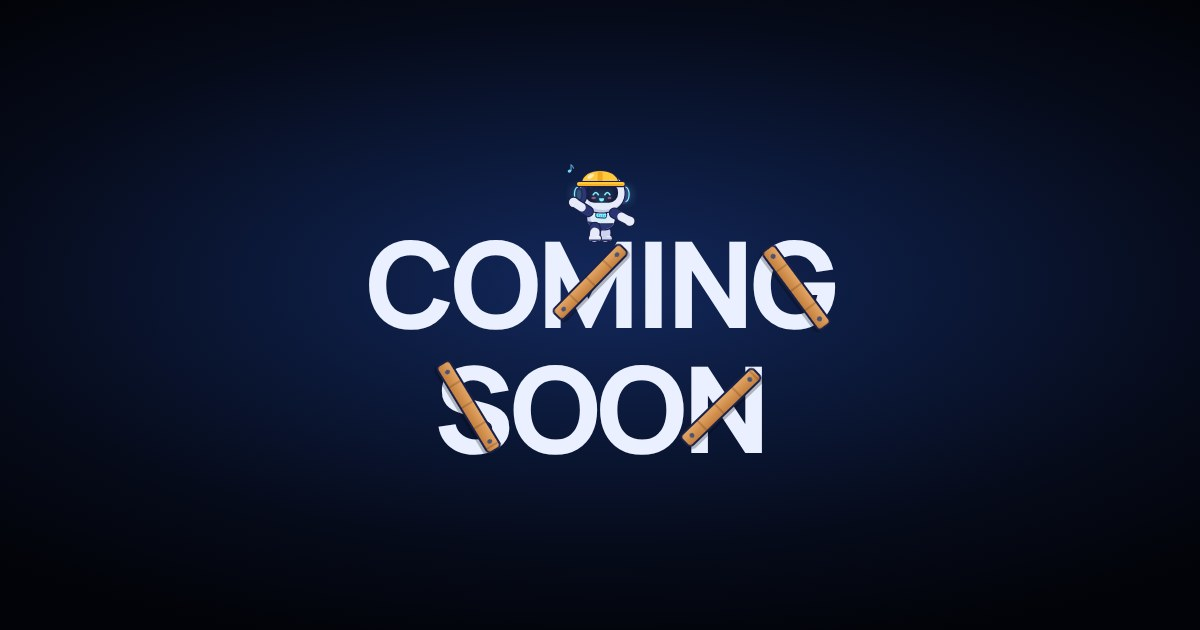
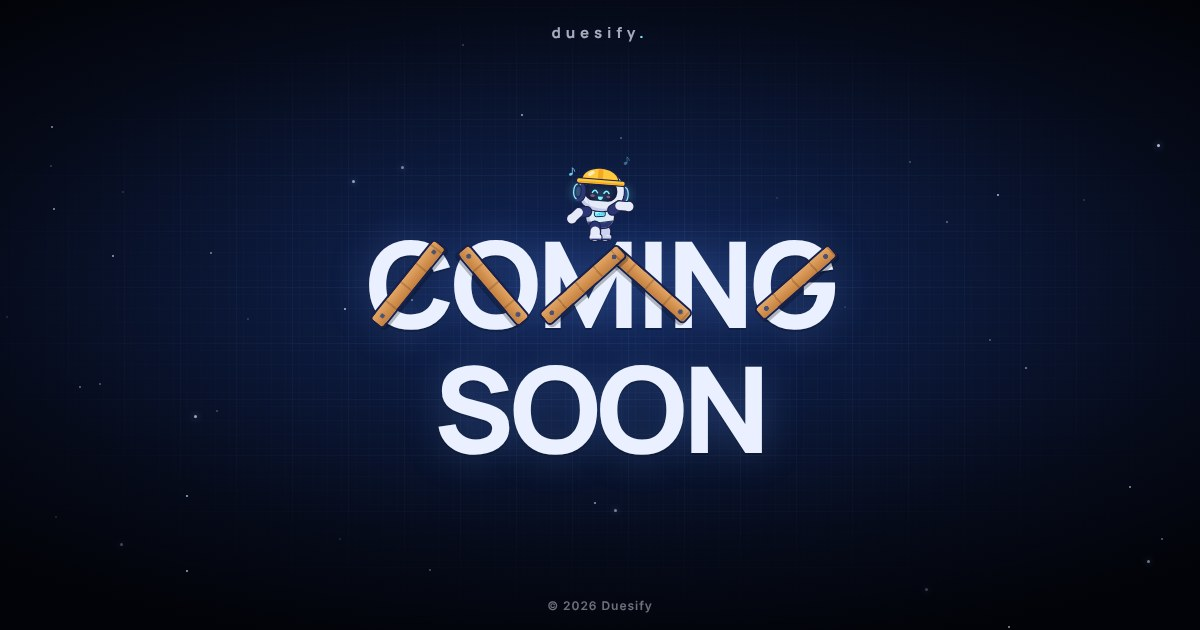
Decorate the page: blueprint grid, twinkling stars, wordmark, footer, text glow
Claude-Session: https://claude.ai/code/session_018Eg4KFDvnriAvTGSvtmkoD

diff --git a/index.html b/index.html
@@ -26,12 +26,62 @@
       --cyan: #7de3f5;
     }
     * { box-sizing: border-box; margin: 0; padding: 0; }
-    html { background: var(--bg); }
-    body {
+    html {
       /* clean black-to-navy: a soft navy glow behind the words, fading to near-black */
       background:
         radial-gradient(ellipse 75% 60% at 50% 45%, #13285c 0%, #0b1838 38%, #060b1a 70%, #020308 100%) fixed,
         var(--bg);
+    }
+
+    /* Decoration: faint blueprint grid + twinkling stars, both fading out towards the edges */
+    .deco {
+      position: fixed;
+      inset: 0;
+      z-index: -1;
+      pointer-events: none;
+      -webkit-mask: radial-gradient(ellipse 70% 65% at 50% 47%, #000 20%, transparent 85%);
+              mask: radial-gradient(ellipse 70% 65% at 50% 47%, #000 20%, transparent 85%);
+    }
+    .grid {
+      background:
+        linear-gradient(rgba(125, 170, 255, 0.07) 1px, transparent 1px) 0 0 / 56px 56px,
+        linear-gradient(90deg, rgba(125, 170, 255, 0.07) 1px, transparent 1px) 0 0 / 56px 56px,
+        linear-gradient(rgba(125, 170, 255, 0.035) 1px, transparent 1px) 0 0 / 14px 14px,
+        linear-gradient(90deg, rgba(125, 170, 255, 0.035) 1px, transparent 1px) 0 0 / 14px 14px;
+      background-position: center;
+    }
+    .stars { -webkit-mask: none; mask: none; }
+    .star {
+      position: absolute;
+      width: 2px; height: 2px;
+      border-radius: 50%;
+      background: #cfe0ff;
+      opacity: 0.15;
+      animation: twinkle var(--d) ease-in-out var(--t) infinite;
+    }
+    .star.big { width: 3px; height: 3px; box-shadow: 0 0 6px rgba(160, 200, 255, 0.8); }
+    @keyframes twinkle { 50% { opacity: 0.85; } }
+
+    .mark, .foot {
+      position: fixed;
+      left: 0; right: 0;
+      text-align: center;
+      color: rgba(234, 240, 255, 0.45);
+      pointer-events: none;
+      z-index: 1;
+    }
+    .mark {
+      top: 22px;
+      font-size: 15px;
+      letter-spacing: 0.32em;
+      text-transform: lowercase;
+      color: rgba(234, 240, 255, 0.7);
+    }
+    .mark i { color: var(--cyan); font-style: normal; }
+    .foot {
+      bottom: 18px;
+      font: 600 12px/1 system-ui, sans-serif;
+      letter-spacing: 0.08em;
     }
     body {
       min-height: 100vh;
@@ -52,6 +102,7 @@
       letter-spacing: -0.035em;
       text-transform: uppercase;
       text-align: center;
+      text-shadow: 0 0 40px rgba(110, 160, 255, 0.28), 0 2px 0 rgba(4, 8, 20, 0.35);
       padding: 1.1em 16px 0.6em;    /* room above for the robot's jumps */
     }
     .line { display: block; white-space: nowrap; }
@@ -141,11 +192,14 @@
     }
 
     @media (prefers-reduced-motion: reduce) {
-      .w, .portal { animation: none !important; }
+      .w, .portal, .star { animation: none !important; }
     }
   </style>
 </head>
 <body>
+  <div class="deco grid" aria-hidden="true"></div>
+  <div class="deco stars" aria-hidden="true" id="stars"></div>
+  <div class="mark" aria-hidden="true">duesify<i>.</i></div>
   <h1 aria-label="Coming soon">
     <span class="line"><span class="w" style="--i:0" id="word">Coming</span></span>
     <span class="line"><span class="w" style="--i:1" id="soon">Soon</span></span>
@@ -153,6 +207,24 @@
 
   <canvas id="bot" role="img" aria-label="A cute robot playing on the page"></canvas>
 
+  <footer class="foot">© 2026 Duesify</footer>
+
+  <script>
+    // sprinkle a few dozen stars at random spots, each twinkling at its own pace
+    (() => {
+      const box = document.getElementById('stars');
+      const n = Math.round(Math.min(70, innerWidth * innerHeight / 18000));
+      for (let i = 0; i < n; i++) {
+        const s = document.createElement('span');
+        s.className = Math.random() < 0.15 ? 'star big' : 'star';
+        s.style.left = (Math.random() * 100).toFixed(2) + '%';
+        s.style.top = (Math.random() * 100).toFixed(2) + '%';
+        s.style.setProperty('--d', (2.5 + Math.random() * 4).toFixed(2) + 's');
+        s.style.setProperty('--t', (-Math.random() * 6).toFixed(2) + 's');
+        box.appendChild(s);
+      }
+    })();
+  </script>
   <script src="robot-rig.js"></script>
   <script src="scene.js"></script>
 </body>
